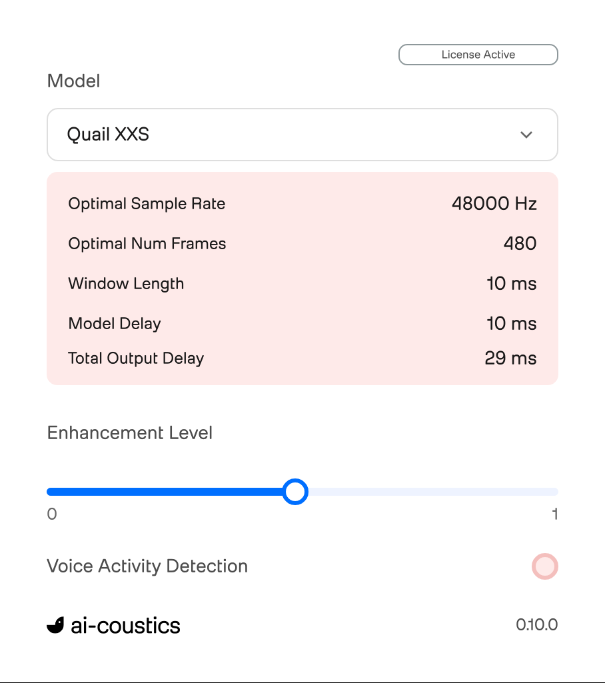
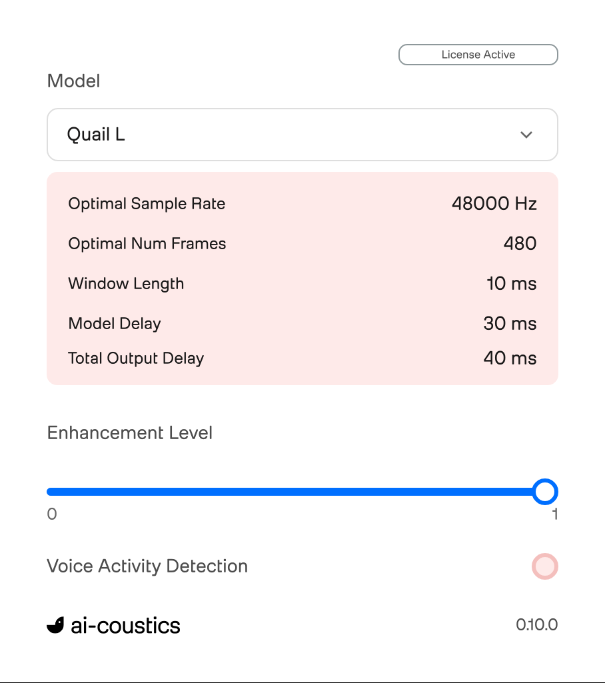
update release notes and screenshot

Changed region(s): [[0.4463, 0.6764, 0.9223, 0.7379], [0.8033, 0.4612, 0.8331, 0.5534], [0.1785, 0.1845, 0.2678, 0.2152]]

diff --git a/release/ReleaseNotes.md b/release/ReleaseNotes.md
@@ -1,6 +1,5 @@
 # Release Notes
 
-- Plugin now works in hosts with variable buffer sizes (e.g. Audacity), for the price of a higher output delay
-- Introduced a fix to an issue where the output delay was not reported when switching models during processing
-- Introduced new parameter `Bypass`, which bypasses the enhancement while keeping the processing delay active
-- When the enhancement level is set to 0, the state will be reset automatically before processing continues
+- Updated SDK to version 0.10.0
+- Voice Activity Detection (VAD) information is now displayed in the user interface
+- Added specialized QuailSTT model optimized for speech-to-text scenarios
